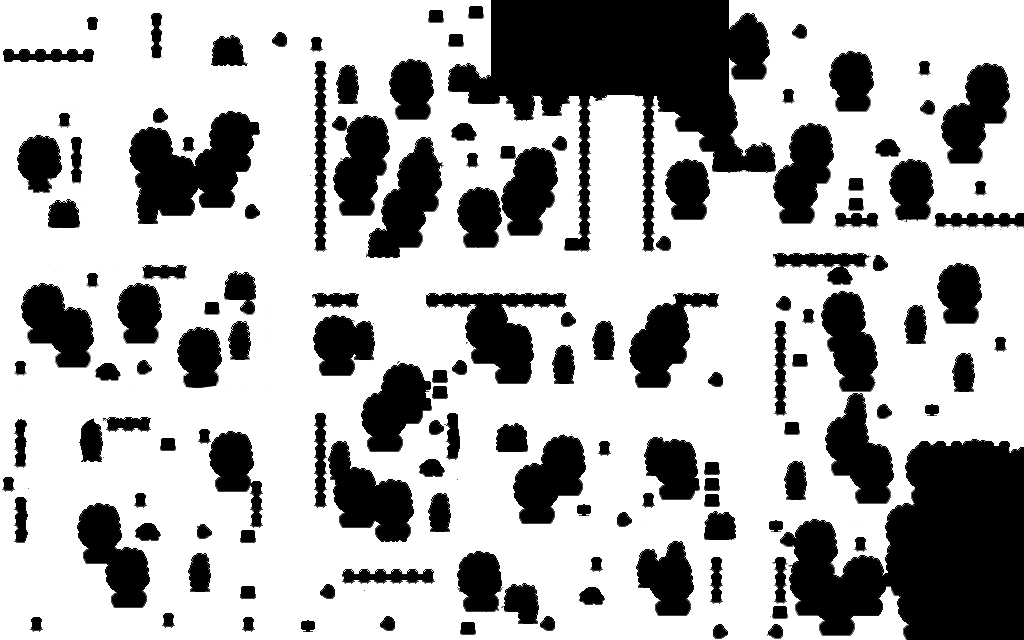
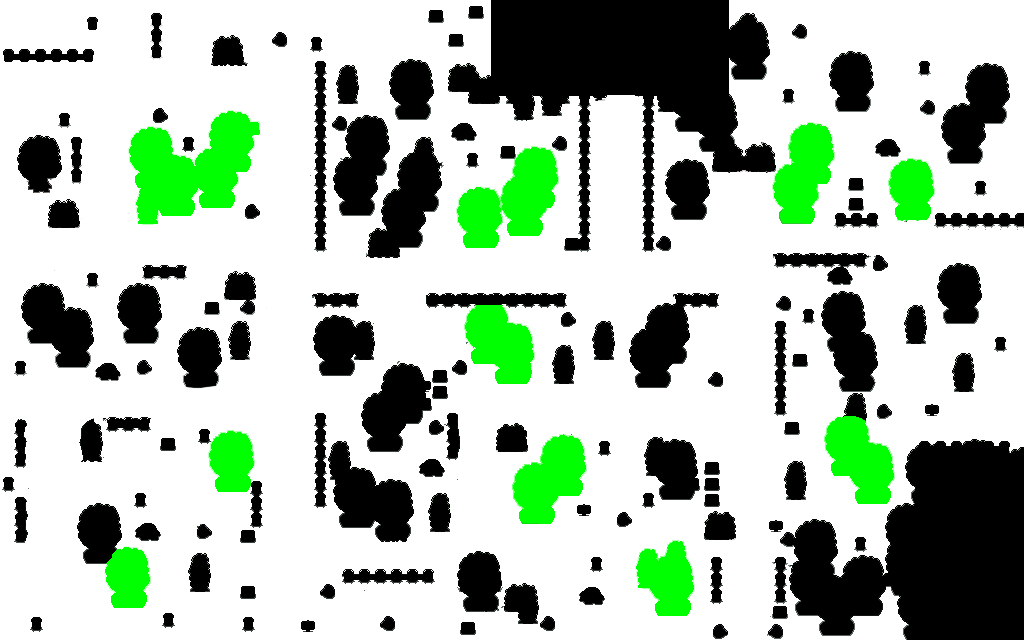
correcao final v1 hitbox

diff --git a/js/gameModes/openWorld.js b/js/gameModes/openWorld.js
@@ -13,6 +13,10 @@ let imgY = 0
 //IMPORTED IMAGES
 let base_image = new Image();
 let hitbox_image = new Image()
+let character_right = new Image();
+let character_left = new Image();
+let character_right_walk = new Image();
+let character_left_walk = new Image();
 
 //ORIGINAL IMAGE HEIGHT/WIDTH
 let imgH
@@ -20,8 +24,7 @@ let imgW
 
 //BALL INITIAL POSITION
 let ballX = 148
-let ballY = 148
-let ballWH = 20
+let ballY = 148 
 
 //DIMENSIONS
 let dimensionX = 250
@@ -31,6 +34,15 @@ let dimensionY = 250
 /* let pixelArray = [] */
 let pixel
 
+//SPRITE FRAME COUNTER
+let frameIndex = 0
+let animationFrameCount = 0
+
+//SPRITE DIRECTIONS
+let direction
+let right = true
+let left = false
+let characterDimensions = 40
 
 
 //WHOLE MAP INIT
@@ -40,30 +52,16 @@ base()
 function base(){
     base_image.src = `/media/map.png`; //MAIN BACKGROUND IMAGE
     hitbox_image.src = `/media/hitbox.png`; //HITBOX BACKGROUND IMAGE
+    character_right.src = `/media/animation_player/static_right1.png`; //CHARACTER SPRITE
+    character_left.src = `/media/animation_player/static_left1.png`; //CHARACTER SPRITE
+    character_right_walk.src = `/media/animation_player/walk_right1.png`; //CHARACTER SPRITE
+    character_left_walk.src = `/media/animation_player/walk_left1.png`; //CHARACTER SPRITE
+    direction = character_right
     base_image.onload = function(){
         imgW = base_image.width
         imgH = base_image.height   
         //console.log(imgW, imgH); 
         // ctx.drawImage(base_image, imgX, imgY, dimensionX, dimensionY, 0, 0, 500, 500);
-        
-
-
-/*         //BERNARDO TEST
-         ctx.drawImage(hitbox_image, imgX, imgY, dimensionX, dimensionY, 0, 0, 500, 500)
-        //x = i AND y = j
-       for(let i = 0; i < W; i++) {
-           for(let j = 0; j < H; j++) {
-                pixel = ctx.getImageData(i, j, 1, 1)
-                if(pixel.data[0] == 255 && pixel.data[1] == 255 && pixel.data[2] == 255){
-                    pixelArray.push(1)
-                } else {
-                    pixelArray.push(0)
-                }
-           }
-       }
-       console.log(pixelArray)
-       console.log(pixelArray.filter(pixel => pixel == 1))
-    }  */
  }
 }
 
@@ -79,8 +77,20 @@ function render() {
     //console.log(imgX, imgY)
     ctx.drawImage(base_image,  imgX, imgY, dimensionX, dimensionY, 0, 0, 500, 500);
 
+    //SPRITE
+    ctx.drawImage(direction, frameIndex * 90/6, 0, 14, 23, ballX, ballY, characterDimensions, characterDimensions)
+    animationFrameCount++
+
+    if(animationFrameCount % 6 == 0) {
+        frameIndex++
+
+        if(frameIndex == 6) {
+            frameIndex = 0
+        }
+    }
+
     //CUBE TEST
-    ctx.fillRect(ballX, ballY, ballWH, ballWH)
+    /* ctx.fillRect(ballX, ballY, ballWH, ballWH) */
 
     //TEST SQUARE
 /*     ctx.beginPath()
@@ -99,113 +109,197 @@ window.addEventListener('keydown', (event) => {
     switch (event.keyCode){
         case 37:
             
+            ctx.clearRect(0, 0, W, H)
             ctx.drawImage(hitbox_image, imgX, imgY, dimensionX, dimensionY, 0, 0, 500, 500)
 
             //PIXEL COLOR CHECK
-            pixel = ctx.getImageData(ballX-7, ballY, 25, 25) 
-            console.log(pixel.data[0])
-            console.log(pixel.data[1])
-            console.log(pixel.data[2]) 
+            pixel = ctx.getImageData(ballX-4, ballY, characterDimensions, characterDimensions) 
 
 
             //PIXEL COLOR CHECK
               if(!pixelCheck(pixel.data, 0, 0, 0)){
-                if(ballX > 100){
-                    ballX -= 3
-                } else {
-                    if(imgX > 0){
-                        imgX -= 3
+                if(!pixelCheck(pixel.data, 0, 255, 0)){
+                    if(ballX > 100){
+                        ballX -= 3
+                        direction = character_left_walk
+                        right = false
+                        left = true
+                    } else {
+                        if(imgX > 0){
+                            imgX -= 3
+                            direction = character_left_walk
+                            right = false
+                            left = true
+                        }
                     }
                 }
             } 
             //console.log('left')
             break;
         case 38: 
-
+            ctx.clearRect(0, 0, W, H)
             ctx.drawImage(hitbox_image, imgX, imgY, dimensionX, dimensionY, 0, 0, 500, 500)
 
             //PIXEL COLOR CHECK
-            pixel = ctx.getImageData(ballX, ballY-7, 25, 25) 
-            console.log(pixel.data[0])
-            console.log(pixel.data[1])
-            console.log(pixel.data[2]) 
+            pixel = ctx.getImageData(ballX, ballY-7, characterDimensions, characterDimensions) 
 
             //PIXEL COLOR CHECK
             if(!pixelCheck(pixel.data, 0, 0, 0)){
-                if(ballY > 100){
-                    ballY -= 3
-                } else {
-                    if(imgY > 0){
-                        imgY -= 3
+                if(!pixelCheck(pixel.data, 0, 255, 0)){
+                    if(ballY > 100){
+                        ballY -= 3
+                        if(right == true){
+                            direction = character_right_walk
+                        } else {
+                            direction = character_left_walk
+                        }
+                    } else {
+                        if(imgY > 0){
+                            imgY -= 3
+                            if(right == true){
+                                direction = character_right_walk
+                            } else {
+                                direction = character_left_walk
+                            }
+                        }
                     }
                 }
             }
             //console.log('up')
             break;
         case 39:
-
+            ctx.clearRect(0, 0, W, H)
             ctx.drawImage(hitbox_image, imgX, imgY, dimensionX, dimensionY, 0, 0, 500, 500)
 
             //PIXEL COLOR CHECK
-            pixel = ctx.getImageData(ballX+ballWH, ballY, 1, ballWH) 
-            console.log(pixel.data[0])
-            console.log(pixel.data[1])
-            console.log(pixel.data[2]) 
+            pixel = ctx.getImageData(ballX+4, ballY, characterDimensions, characterDimensions) 
             
             //PIXEL COLOR CHECK
             if(!pixelCheck(pixel.data, 0, 0, 0)){
-                if(ballX < 400){
-                    ballX += 3
-                } else {
-                    if(imgX + dimensionY < imgW){
-                        imgX += 3
+                if(!pixelCheck(pixel.data, 0, 255, 0)){
+                    if(ballX < 400){
+                        ballX += 3
+                        direction = character_right_walk
+                        left = false
+                        right = true
+                    } else {
+                        if(imgX + dimensionY < imgW){
+                            imgX += 3
+                            direction = character_right_walk
+                            left = false
+                            right = true
+                        }
                     }
                 }
             }
             //console.log('right')
         break;
         case 40:
-
+                ctx.clearRect(0, 0, W, H)
                 ctx.drawImage(hitbox_image, imgX, imgY, dimensionX, dimensionY, 0, 0, 500, 500)
 
                 //PIXEL COLOR CHECK
-                pixel = ctx.getImageData(ballX, ballY+ballWH, 1, 1) 
-                console.log(pixel.data[0])
-                console.log(pixel.data[1])
-                console.log(pixel.data[2]) 
+                pixel = ctx.getImageData(ballX, ballY+7, characterDimensions, characterDimensions) 
 
                 //PIXEL COLOR CHECK
                 if(!pixelCheck(pixel.data, 0, 0, 0)){
-                    if(ballY < 400){
-                        ballY += 3
-                    } else {
-                        if(imgY + dimensionX < imgH){
-                            imgY += 3
+                    if(!pixelCheck(pixel.data, 0, 255, 0)){
+                        if(ballY < 400){
+                            ballY += 3
+                            if(right == true){
+                                direction = character_right_walk
+                            } else {
+                                direction = character_left_walk
+                            }
+                        } else {
+                            if(imgY + dimensionX < imgH){
+                                imgY += 3
+                                if(right == true){
+                                    direction = character_right_walk
+                                } else {
+                                    direction = character_left_walk
+                                }
+                            }
                         }
                     }
                 }
             //console.log('down')
+        break;
+        case 90: //'z' press
+            
+            ctx.drawImage(hitbox_image, imgX, imgY, dimensionX, dimensionY, 0, 0, 500, 500)
+
+            //PIXEL COLOR CHECK
+        
+            pixel = ctx.getImageData(ballX, ballY+25, 25, 25)
+            if(pixelCheck(pixel.data, 0, 255, 0)){
+                console.log('SOU VERDE')
+                break
+            }
+
+            pixel = ctx.getImageData(ballX+40, ballY, 25, 25)
+            if(pixelCheck(pixel.data, 0, 255, 0)){
+                console.log('SOU VERDE')
+                break
+            }
+
+
+            pixel = ctx.getImageData(ballX, ballY-20, 25, 25)
+            if(pixelCheck(pixel.data, 0, 255, 0)){
+                console.log('SOU VERDE')
+                break
+            }
+
+            pixel = ctx.getImageData(ballX-40, ballY, 25, 25)
+            if(pixelCheck(pixel.data, 0, 255, 0)){
+                console.log('SOU VERDE')
+                break
+            }                            
+        
             break;
-    
         default:
             break;
     }
-    
- 
 })
 
+window.addEventListener('keyup', () => {
+    if(right == true) {
+        direction = character_right
+    } else {
+        direction = character_left
+    }
+})
 
 //PIXEL COLOR FUNCTION
-function pixelCheck(pixel, r, g, b){
+ function pixelCheck(pixel, r, g, b){
     let dataArray = []
     for(let i = 0; i < pixel.length/4; i++){
         dataArray.push([pixel[i*4], pixel[i*4+1], pixel[i*4+2], pixel[i*4+3]])
     }
 
-    console.log(dataArray)
+/*     console.log(dataArray)
     console.log(r)
     console.log(g)
-    console.log(b)
-    console.log(dataArray.find(data => data[0] == r && data[1] == g && data[2] == b))
-    return dataArray.find(data => data[0] == r && data[1] == g && data[2] == b)
-}
+    console.log(b)*/
+    let dataFilter = dataArray.filter(data => data[0] == r && data[1] == g && data[2] == b)
+ /*    console.log(dataFilter) */
+    if(r == 0 && g == 0 && b == 0){
+        if(dataFilter.length >= 15){
+            return true
+        } else {
+            return false
+        }
+    } else if( r == 255 && g == 255 && b == 255) {
+        if(dataFilter.length >= 15){
+            return true
+        } else {
+            return false
+        }
+    } else if(r == 0 && g == 255 && b == 0){
+        if(dataFilter.length >= 15){
+            return true
+        } else {
+            return false 
+        }
+    }
+} 
